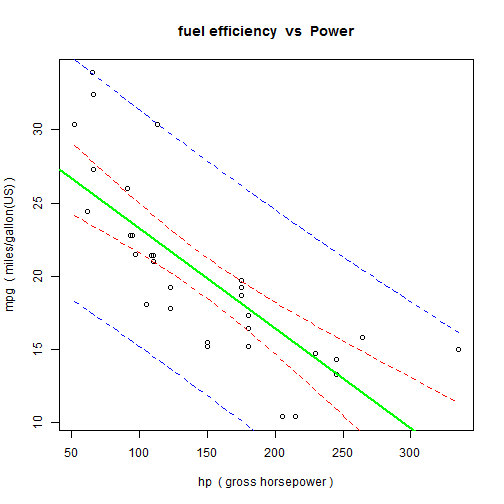
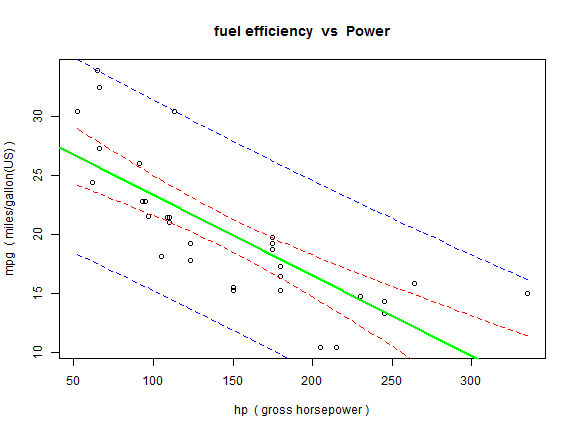
update files
finished now, I hope

diff --git a/index.html b/index.html
@@ -88,9 +88,11 @@ What relates to what, and how?</p>
     <h2>Intuitive insight, unlike the dataset!</h2>
   </hgroup>
   <article data-timings="">
-    <p>for example it shows you a figure like this (the code is in the .Rmd file, not here on Rpubs! trust me!!!):</p>
+    <p>for example it shows you a figure like this:</p>
 
-<p><img src="assets/fig/plot-1.png" alt="plot of chunk plot"></p>
+<p><img src="assets/fig/plot-1.png" title="plot of chunk plot" alt="plot of chunk plot" style="display: block; margin: auto;" /></p>
+
+<p>for the code, see: <a href="http://github.com/robmitch9999/DataProducts/blob/gh-pages/index.Rmd">http://github.com/robmitch9999/DataProducts/blob/gh-pages/index.Rmd</a></p>
 
   </article>
   <!-- Presenter Notes -->
@@ -98,7 +100,7 @@ What relates to what, and how?</p>
 
 <slide class="" id="slide-4" style="background:;">
   <hgroup>
-    <h2>Slide 5 Better yet lets go to the app and see what it can do:</h2>
+    <h2>Better yet lets go to the app and see what it can do:</h2>
   </hgroup>
   <article data-timings="">
     <p><br>
@@ -139,7 +141,7 @@ What relates to what, and how?</p>
     </li>
     <li>
       <a href="#" target="_self" rel='tooltip' 
-        data-slide=4 title='Slide 5 Better yet lets go to the app and see what it can do:'>
+        data-slide=4 title='Better yet lets go to the app and see what it can do:'>
          4
       </a>
     </li>

diff --git a/index.md b/index.md
@@ -47,15 +47,15 @@ What relates to what, and how?
 
 ## Intuitive insight, unlike the dataset!
 
-for example it shows you a figure like this (the code is in the .Rmd file, not here on Rpubs! trust me!!!):
+for example it shows you a figure like this:
 
-![plot of chunk plot](assets/fig/plot-1.png)
+<img src="assets/fig/plot-1.png" title="plot of chunk plot" alt="plot of chunk plot" style="display: block; margin: auto;" />
 
-
+for the code, see: http://github.com/robmitch9999/DataProducts/blob/gh-pages/index.Rmd
 
 ---
 
-## Slide 5 Better yet lets go to the app and see what it can do:
+## Better yet lets go to the app and see what it can do:
 
 <br>
 <br>
